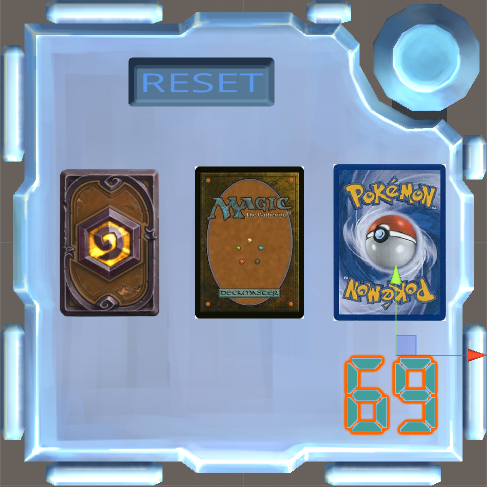
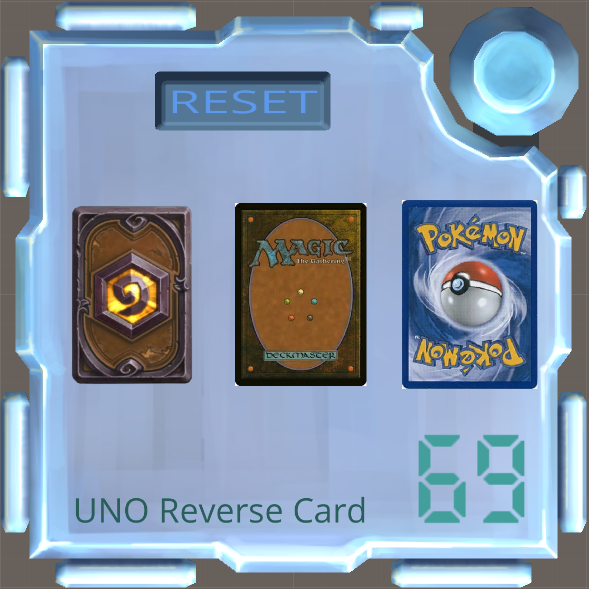
Im triple dumb, didnt let my files finish copying
fuck me.

diff --git a/Assets/Module/DeckCreatingScript.cs b/Assets/Module/DeckCreatingScript.cs
@@ -15,6 +15,7 @@ public class DeckCreatingScript : MonoBehaviour {
 	public SpriteRenderer[] _cardRenderers;
 	public KMSelectable[] _cardSelectors;
 	public TextMesh _cardCounter;
+	public TextMesh _cardName;
 	public Sprite[] _cardBackings;
 
 	// Hearthstone
@@ -100,8 +101,13 @@ public class DeckCreatingScript : MonoBehaviour {
 	void Awake() {
 		_modID = _modIDCount++;
 
+		int count = 0;
 		foreach (KMSelectable km in _cardSelectors) {
 			km.OnInteract += delegate () { if (_isAnimating) { return false; } if (_modSolved) { return false; } CardCheck(km); return false; };
+			if (count != 3) {
+				km.OnHighlight += delegate () { if (_isAnimating) { return; } HighlightName(km); return; };
+				km.OnHighlightEnded += delegate () { if (_isAnimating) { return; } _cardName.text = ""; return; };
+			}
 		}
 	}
 
@@ -129,6 +135,23 @@ public class DeckCreatingScript : MonoBehaviour {
 		}
 		PrintDebug("Correct card selected, generating new set of cards{0}", new object[] { "." });
 		StartCoroutine(GenerateNewCards());
+	}
+
+	void HighlightName(KMSelectable button) {
+		int index = Array.IndexOf(_cardSelectors, button);
+		switch (index) {
+			case 0:
+				_cardName.text = _cardRenderers[0].sprite.name;
+				break;
+			case 1:
+				_cardName.text = _cardRenderers[1].sprite.name;
+				break;
+			case 2:
+				_cardName.text = _cardRenderers[2].sprite.name;
+				break;
+			default:
+				break;
+		}
 	}
 
 	void StartModule() {
